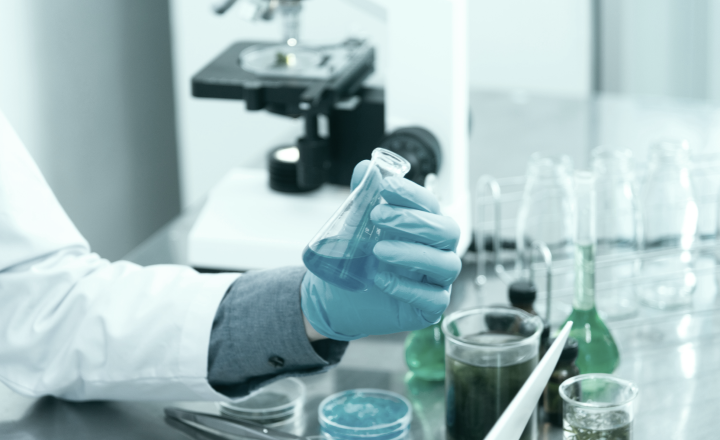
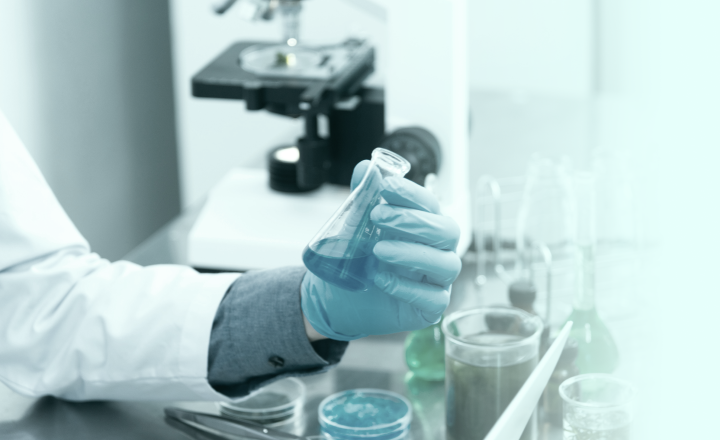
up

diff --git a/luxi-starter-master/components/Feature/MoreFeature.js b/luxi-starter-master/components/Feature/MoreFeature.js
@@ -22,15 +22,13 @@ function MainFeature() {
   return (
     <div className={clsx(classes.featureMore)}>
       
-      <Grid container spacing={6} className={classes.background}>
-        <Grid md={6} item>
+      <Grid container spacing={6} className={classes.backgroundd}>
+        <Grid md={6} >
             <ReactWOW animation="zoomIn" delay="0.3s" duration="0.6s">
               <div className={classes.deco1} />
             </ReactWOW>
             <ReactWOW animation="fadeInLeft" delay="0.5s" duration="0.6s">
-              <figure className={classes.img}>
-                <img src={conhecaSolidariedade} alt="img" />
-              </figure>
+                <img src={conhecaSolidariedade} />
             </ReactWOW>
         </Grid>
         <Grid md={6} item>
@@ -67,9 +65,9 @@ A colaboração entre os participantes é a essência do Solidariedade à Pesqui
             </ReactWOW>
         </Grid>
         <Grid md={6} >
-            
+            <ReactWOW animation="fadeInRight" delay="0.5s" duration="0.6s">
                 <img src={insumosMateriais} />
-          
+            </ReactWOW>
         </Grid>
       </Grid>
 

diff --git a/luxi-starter-master/components/Feature/feature-style.js b/luxi-starter-master/components/Feature/feature-style.js
@@ -37,6 +37,9 @@ const featureStyles = makeStyles(theme => ({
   background: {
     background: "#fafafa",
   },
+  backgroundd: {
+    background: "#E6FFFB",
+  },
   text: {
     marginLeft: theme.spacing(3)
   },
